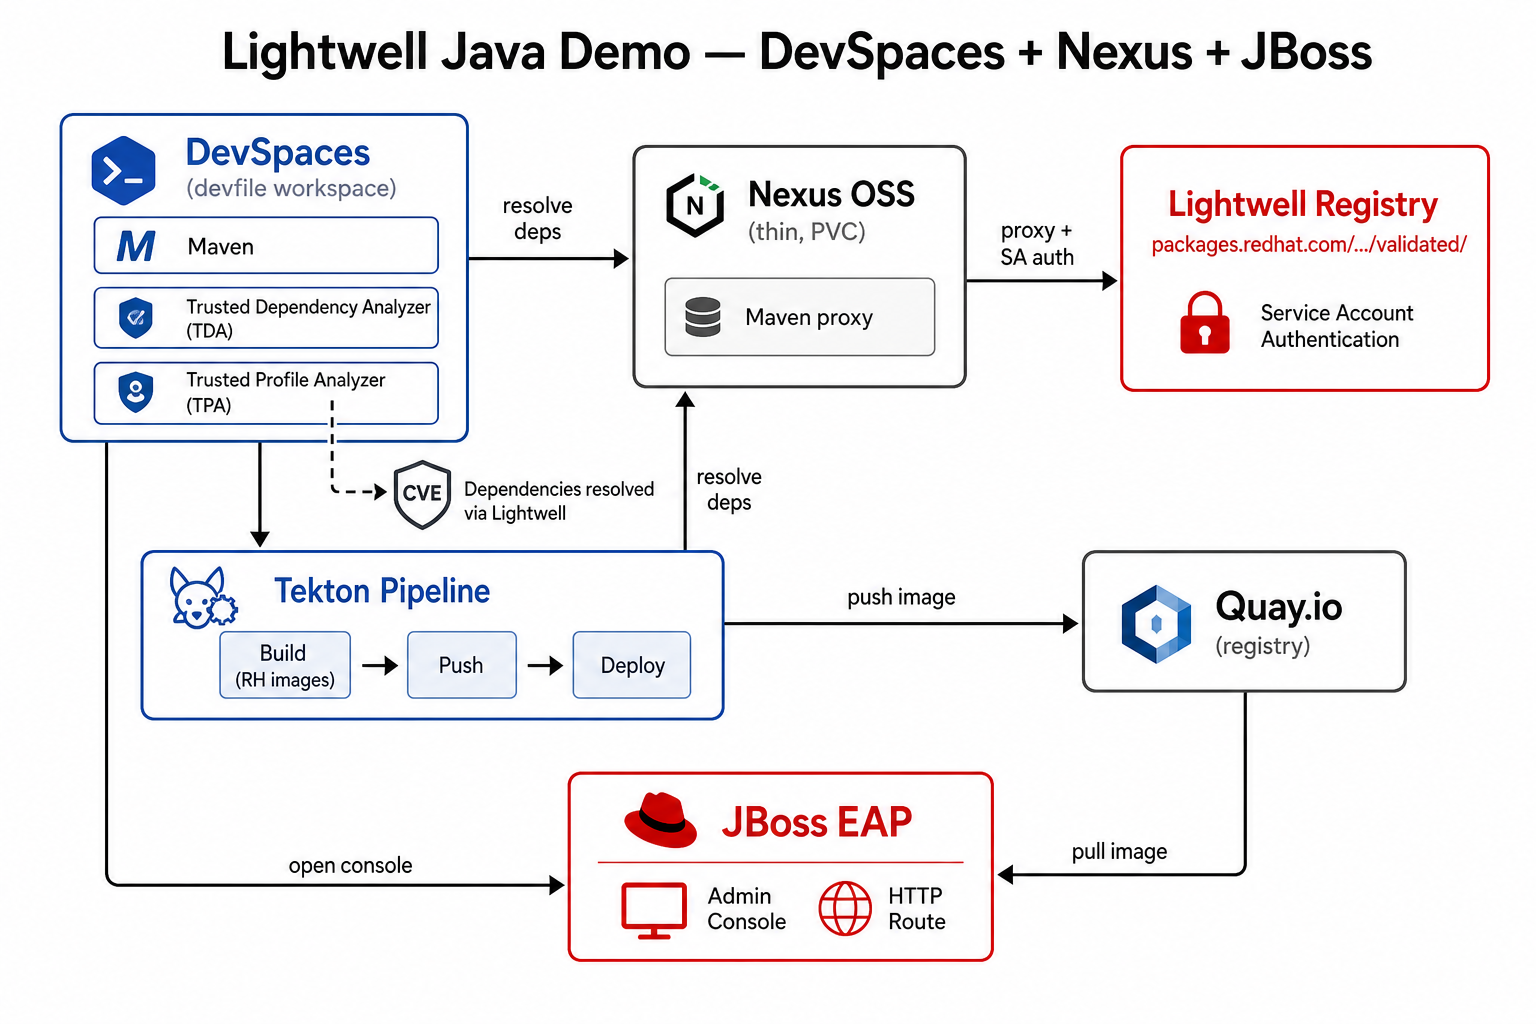
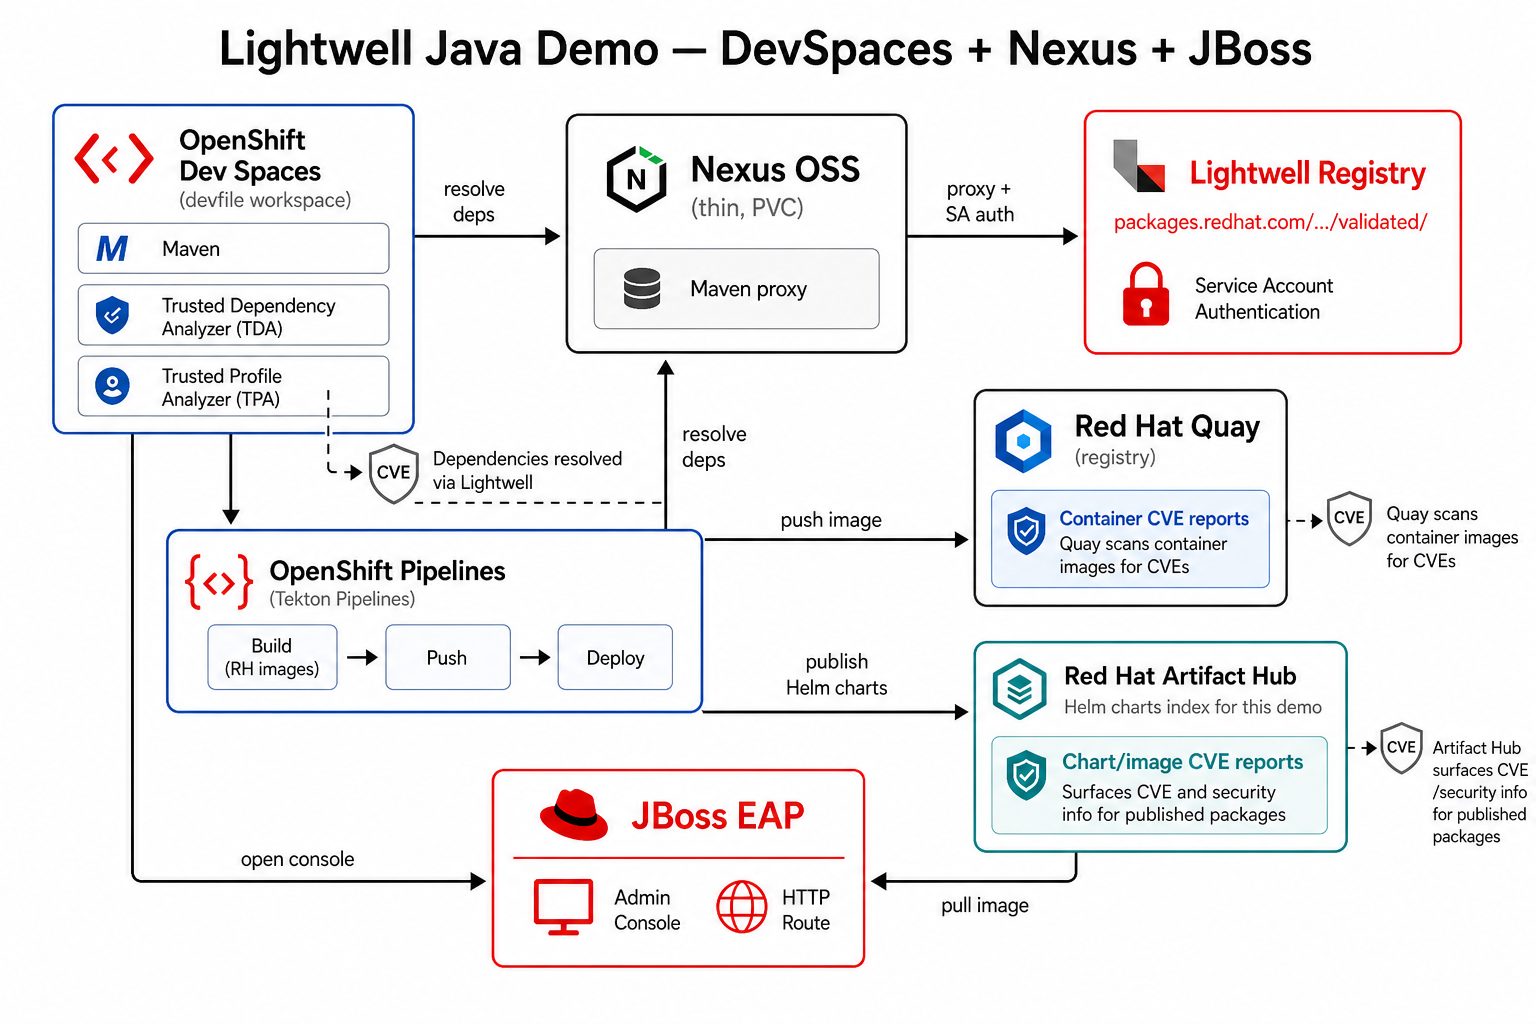
docs: Add Open in Dev Spaces badge and DevWorkspace chart
- Added a robust description of the Open in Dev Spaces zero-install experience in the README
- Included the factory URL badge for Developer Sandbox
- Created a new Helm chart 'devspaces-workspace' to deploy the DevWorkspace CR directly via GitOps/Helm

Changed region(s): [[0.0312, 0.0312, 1.0, 0.9688]]

diff --git a/README.md b/README.md
@@ -23,6 +23,18 @@
 
 Lightwell Java demo for **OpenShift Dev Spaces** on Developer Sandbox: legacy WAR → **Nexus** (PVC) proxy → Lightwell **validated** demo registry, CVEs via **Red Hat Dependency Analytics** (TPA/TDA), **OpenShift Pipelines (Tekton)** + **Quay**, and a **GitHub Actions** contingency path that builds **without Nexus**.
 
+## 🚀 Quick Start: Open in Red Hat OpenShift Dev Spaces
+
+[![Open in Dev Spaces](https://img.shields.io/badge/Open_in-Dev_Spaces-EE0000?logo=redhat&style=for-the-badge)](https://devspaces.sandbox.developer.redhat.com/#https://github.com/maximilianoPizarro/demo-lightwell)
+
+Clicking the badge above leverages the **Dev Spaces Factory URL** to automatically provision a complete cloud development environment directly in your Red Hat Developer Sandbox.
+
+- **Zero-Install Setup:** It reads the repository's `.devfile.yaml` to spin up a Red Hat Universal Developer Image (UDI) container with OpenJDK 17.
+- **Security Tooling Pre-configured:** Automatically installs the **Red Hat Dependency Analytics (RHDA)** VS Code extension, allowing instant Trusted Profile Analyzer (TPA) / Trusted Dependency Analyzer (TDA) CVE scanning directly in your IDE.
+- **One-Click Execution:** Exposes custom IDE tasks (`demo-up`, `open-jboss-console`) to deploy Nexus, proxy Lightwell, and run the Tekton pipeline without touching a local terminal.
+
+---
+
 ## Documentation
 
 | Resource | Link |
@@ -89,7 +101,9 @@ bash scripts/setup-secrets.sh
 
 ## DevSpaces
 
-1. Create workspace from this Git repository.
+[![Open in Dev Spaces](https://img.shields.io/badge/Open_in-Dev_Spaces-EE0000?logo=redhat&style=for-the-badge)](https://devspaces.sandbox.developer.redhat.com/#https://github.com/maximilianoPizarro/demo-lightwell)
+
+1. Click the badge above to create a workspace from this Git repository (or alternatively, deploy the `devspaces-workspace` Helm chart).
 2. Run **demo-up**.
 3. Open `app/pom.xml` → Red Hat Dependency Analytics Report.
 4. Run **open-jboss-console**.
